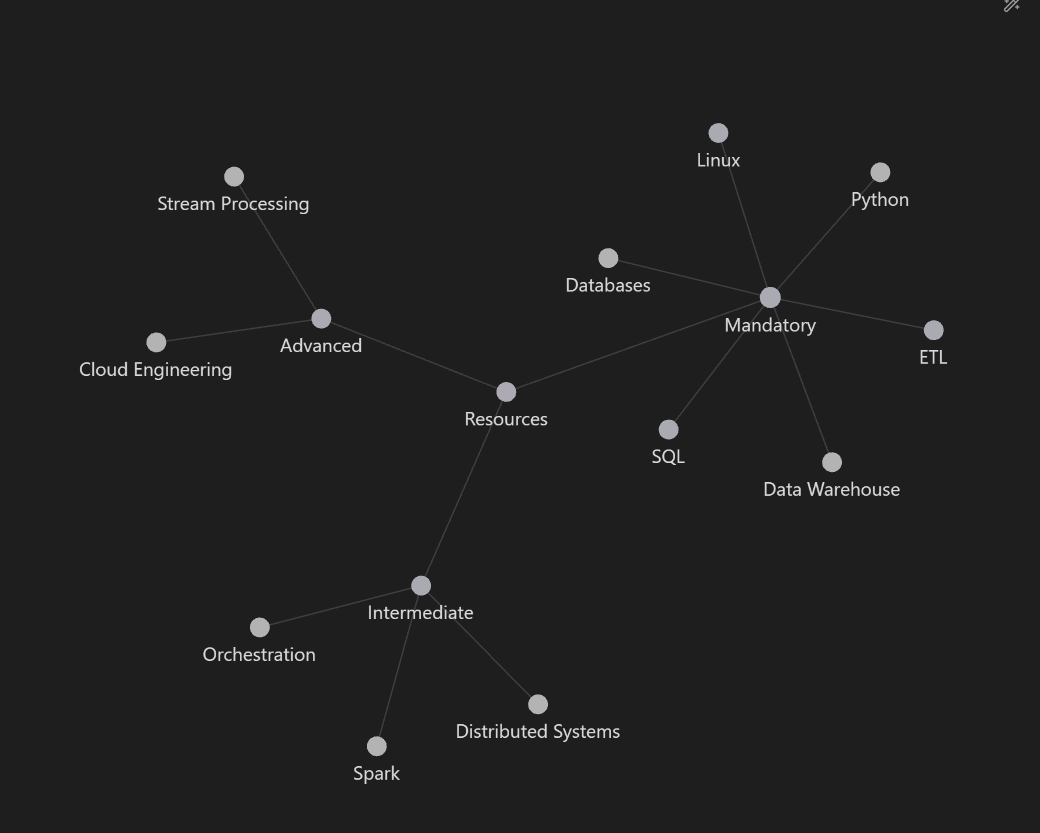
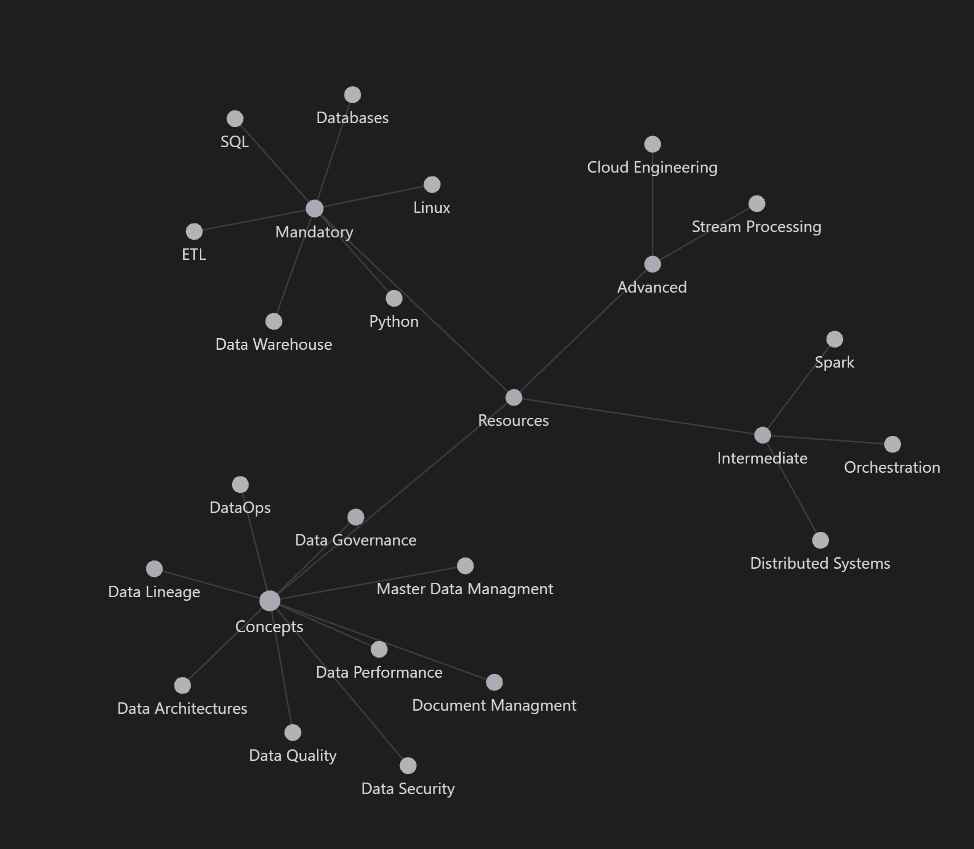
vault backup: 2024-03-07 20:59:22

diff --git a/Links/Concepts.md b/Links/Concepts.md
@@ -1,0 +1,9 @@
+[[Data Quality]]
+[[Data Lineage]]
+[[Data Security]]
+[[Data Performance]]
+[[DataOps]]
+[[Data Governance]]
+[[Document Managment]]
+[[Data Architectures]]
+[[Master Data Managment]]

diff --git a/Links/Resources.md b/Links/Resources.md
@@ -1,3 +1,4 @@
 [[Mandatory]]
 [[Intermediate]]
 [[Advanced]]
+[[Concepts]]
